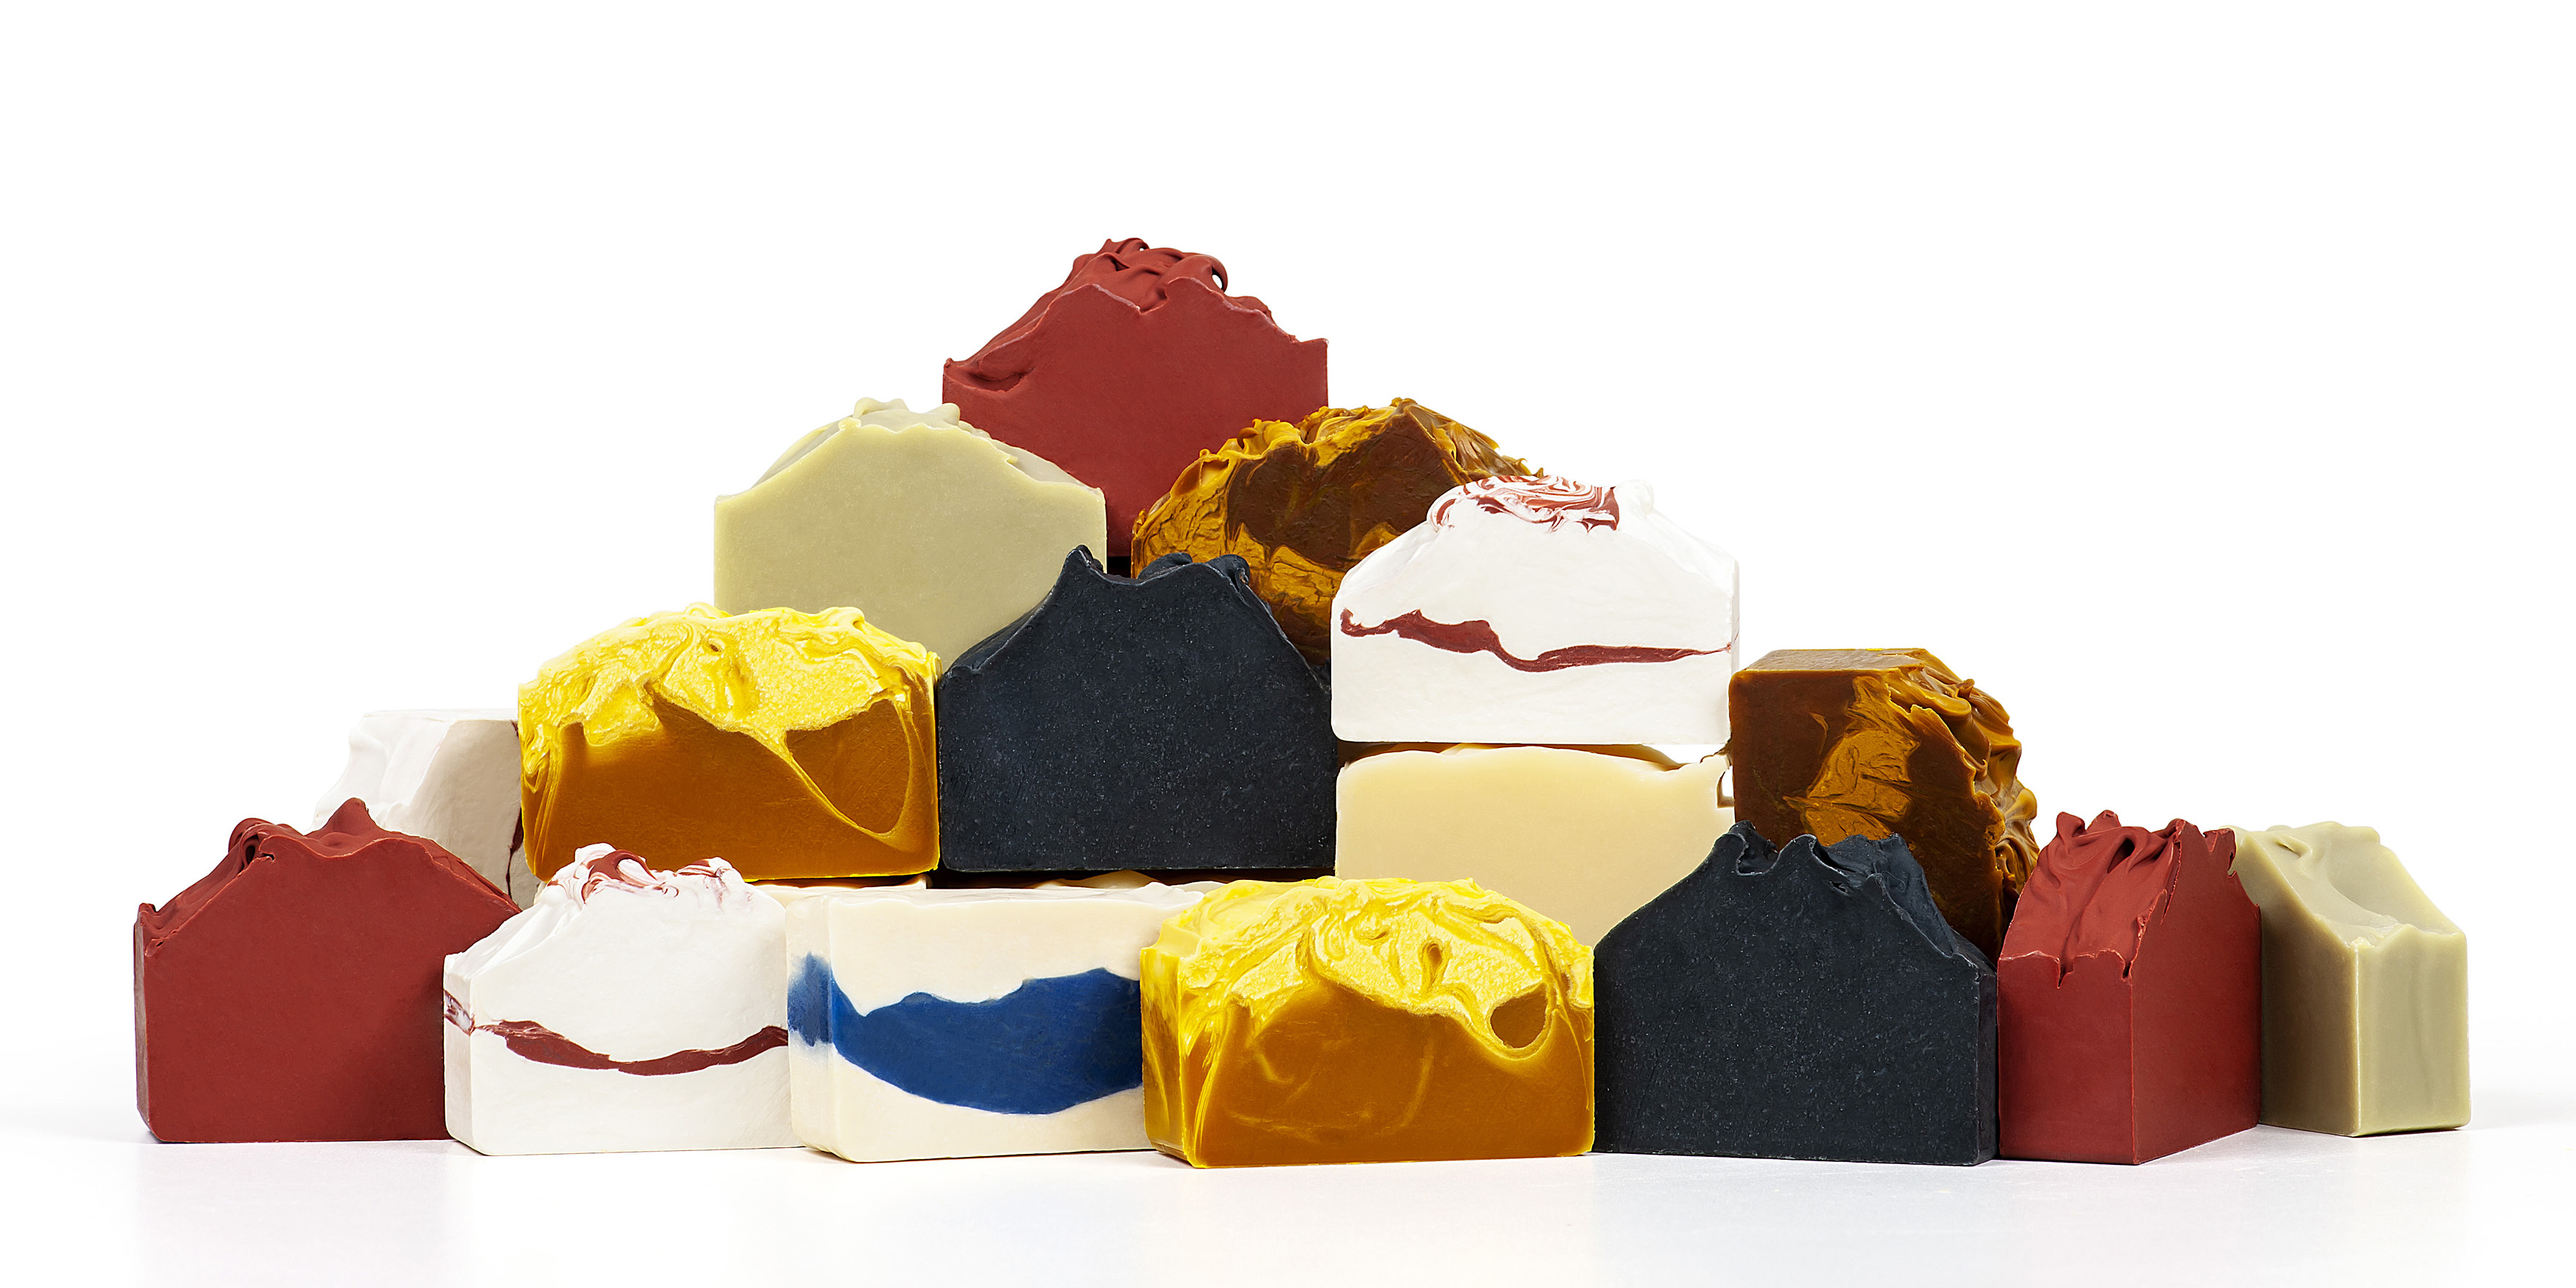
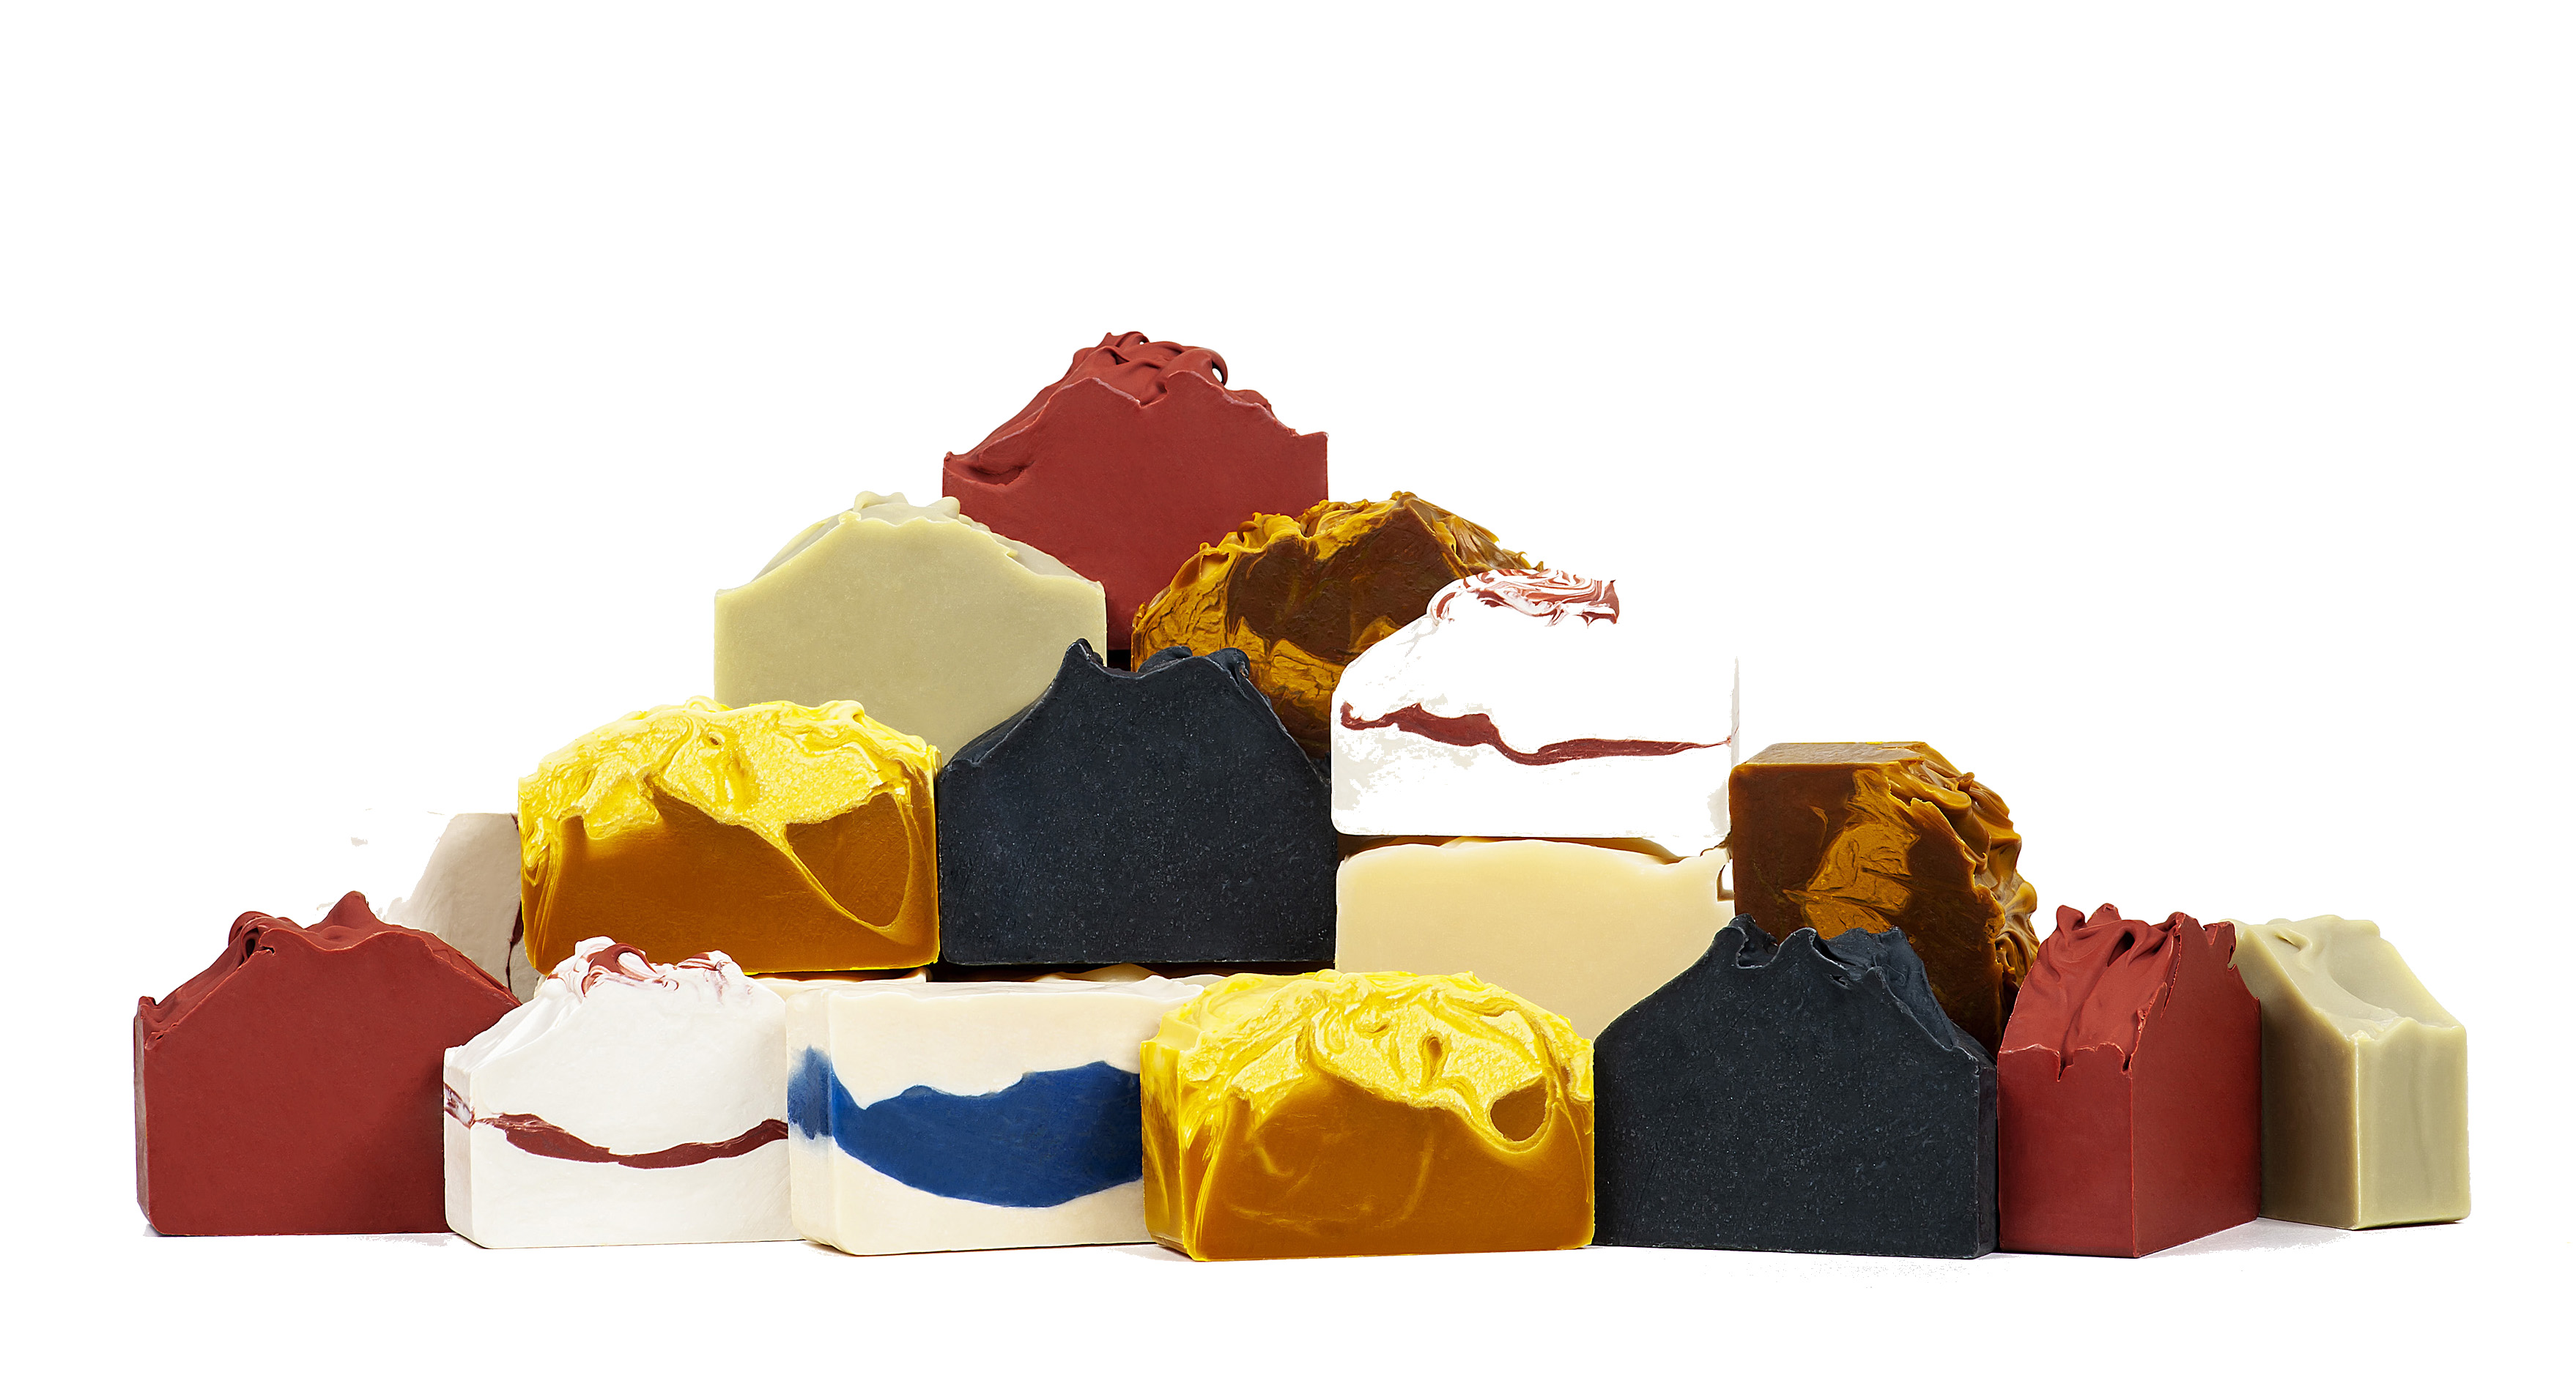
Novo grid de produtos

Changed region(s): [[0.031, 0.1843, 0.961, 0.9215], [0.031, 0.8601, 0.186, 0.9215], [0.682, 0.7679, 0.713, 0.8601]]

diff --git a/models/cliente.ts b/models/cliente.ts
@@ -51,7 +51,7 @@ export = class Cliente{
         }
 
         await Sql.conectar(async(sql)=>{
-            let lista = await sql.query("insert into cliente( nome_cliente, email, senha) values ?, ?, ? ",[cliente.nome_cliente, cliente.email, cliente.senha]);
+            let lista = await sql.query("insert into cliente( nome_cliente, email, senha) values (?, ?, ?) ",[cliente.nome_cliente, cliente.email, cliente.senha]);
         });
 
         return erro;

diff --git a/routes/api/cliente.ts b/routes/api/cliente.ts
@@ -4,7 +4,7 @@ import Cliente = require("../../models/cliente");
 
 const router = express.Router();
 
-router.get("/criar", wrap(async(req: express.Request, res: express.Response)=>{
+router.post("/criar", wrap(async(req: express.Request, res: express.Response)=>{
     let erro: string = null;
 
 	let cliente = req.body as Cliente;

diff --git a/routes/api/produto.ts b/routes/api/produto.ts
@@ -3,7 +3,7 @@ import wrap = require("express-async-error-wrapper");
 import Produto = require("../../models/produto");
 
 const router = express.Router();
-
+//listar
 router.get("/", wrap(async (req: express.Request, res: express.Response) => {
 	let lista = await Produto.listar();
 

diff --git a/routes/api/pedido.ts b/routes/api/pedido.ts
@@ -4,7 +4,7 @@ import Pedido = require("../../models/pedido");
 
 const router = express.Router();
 
-router.get("/criar", wrap(async(req: express.Request, res: express.Response)=>{
+router.post("/criar", wrap(async(req: express.Request, res: express.Response)=>{
     
 }));
 

diff --git a/routes/api/item.ts b/routes/api/item.ts
@@ -4,7 +4,7 @@ import Item = require("../../models/item");
 
 const router = express.Router();
 
-router.get("/criar", wrap(async(req: express.Request, res: express.Response)=>{
+router.post("/criar", wrap(async(req: express.Request, res: express.Response)=>{
     
 }));
 
